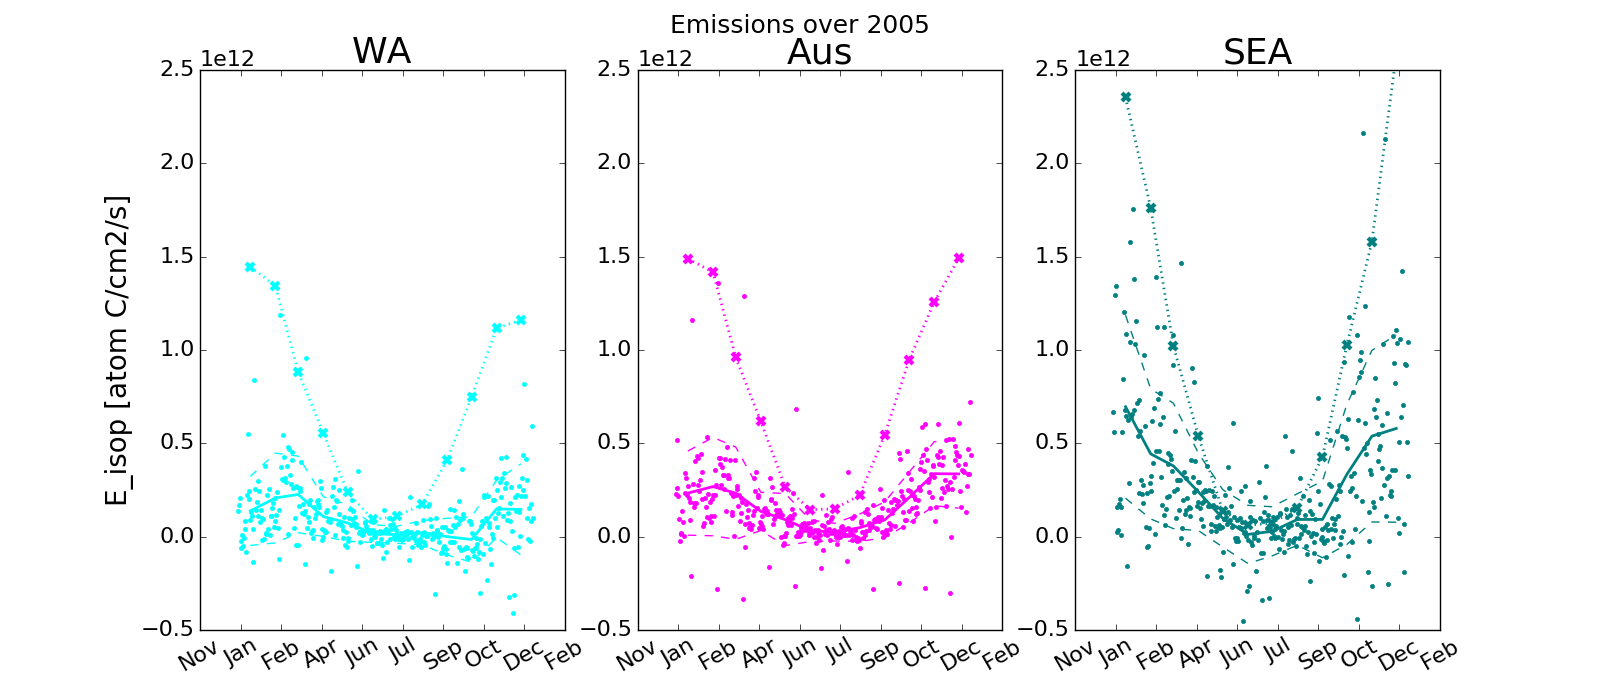
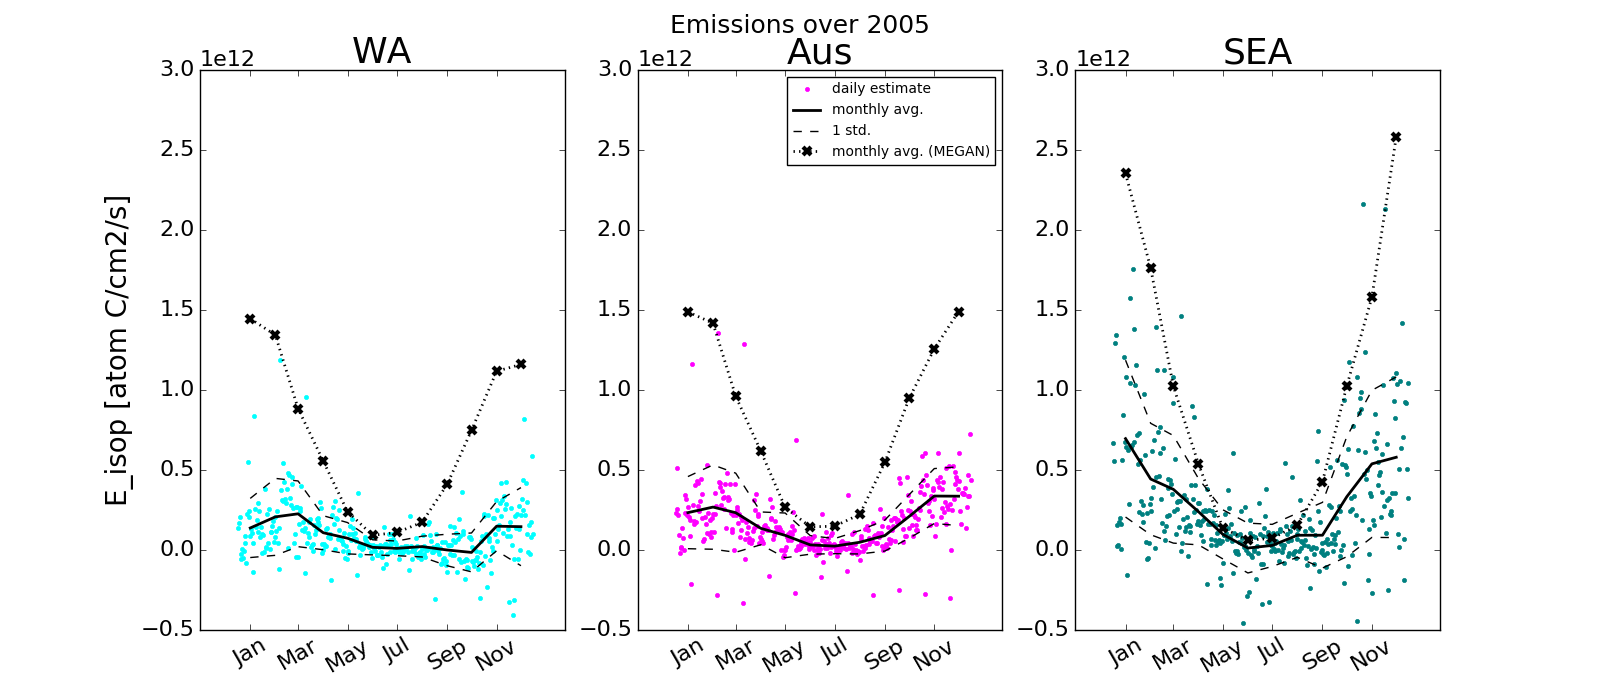
Updated E_isop plot

diff --git a/Analyse_E_isop.py b/Analyse_E_isop.py
@@ -111,17 +111,17 @@ def E_new_time_series(d0=datetime(2005,1,1),dn=datetime(2005,12,1),
     for i,rc in enumerate(zip(subs,colors)):
         ax.append(plt.subplot(131+i))
         region,color=rc
-        ptsargs={'dfmt':"%b",'color':color}
+        ptsargs={'dfmt':"%b",'color':'k'}
 
         dates, E_isop=Enew.get_series('E_isop',region=region)
         dates, GC_E_isop=Enew.get_series('GC_E_isop',region=region)
         units=Enew.attributes['E_isop']['units']
 
-        # Plot time series
+        # Plot time series (dots with color of region)
         pp.plot_time_series(dates,E_isop,
                             linestyle='None', marker='.',
-                            label=[None,'daily'][i==0],
-                            **ptsargs)
+                            label=[None,'daily estimate'][i==1],
+                            color=color)
 
         # Add monthly average line
         monthly=util.monthly_averaged(dates,E_isop)
@@ -129,28 +129,35 @@ def E_new_time_series(d0=datetime(2005,1,1),dn=datetime(2005,12,1),
         GC_E_monthly=GC_monthly['data']
         GC_mstd=GC_monthly['std']
         mdates=monthly['middates']; E_monthly=monthly['data']
+        xticks=mdates[0::2]
         mstd=monthly['std'];
 
+        # Plot monthly average and std:
         pp.plot_time_series(mdates,E_monthly, linewidth=2.0,
-                            label=[None,'monthly avg.'][i==0],
-                            **ptsargs)
-
-        pp.plot_time_series(mdates,GC_E_monthly,linestyle=':',
-                            markeredgewidth=3, marker='x', linewidth=2,
-                            label=[None,'monthly avg. (MEGAN)'][i==0],
+                            label=[None,'monthly avg.'][i==1],
                             **ptsargs)
 
         # add +- 1 std.
         pp.plot_time_series(mdates,E_monthly+mstd, linestyle='--',
-                            label=[None,'1 std.'][i==0],
+                            label=[None,'1 std.'][i==1],
                             **ptsargs)
         pp.plot_time_series(mdates,E_monthly-mstd, linestyle='--',
                             **ptsargs)
+
+        # Plot E_isop average
+        pp.plot_time_series(mdates,GC_E_monthly,linestyle=':',xticks=xticks,
+                            markeredgewidth=3, marker='x', linewidth=2,
+                            label=[None,'monthly avg. (MEGAN)'][i==1],
+                            **ptsargs)
+
+
         plt.ylim([-0.5e12, 3e12])
         plt.title(labels[i])
+        if i==1: plt.legend(loc='best',prop={'size': 10})
+
     ax[0].set_ylabel("E_isop [%s]"%units)
     plt.suptitle("Emissions over 2005")
-    plt.legend(loc='best')
+
 
 
 

diff --git a/utilities/plotting.py b/utilities/plotting.py
@@ -313,7 +313,7 @@ def plot_corellation(X,Y, lims=[1e12,2e17], logscale=True, legend=True,
     if diag:
         plt.plot(lims0,lims0,'--',color=colour,label='1-1') # plot the 1-1 line for comparison
 
-def plot_time_series(datetimes,values,ylabel=None,xlabel=None, pname=None, legend=False, title=None, xtickrot=30, dfmt='%Y%m', **pltargs):
+def plot_time_series(datetimes,values,ylabel=None,xlabel=None, pname=None, legend=False, title=None, xtickrot=30, dfmt='%Y%m', xticks=None, **pltargs):
     ''' plot values over datetimes '''
     dates = mdates.date2num(datetimes)
     #plt.plot_date(dates, values, **pltargs)
@@ -333,6 +333,10 @@ def plot_time_series(datetimes,values,ylabel=None,xlabel=None, pname=None, legen
         plt.legend()
     if title is not None:
         plt.title(title)
+    if xticks is not None:
+        #xt=[]
+        #xt.append(mdates.date2num(xticks))
+        plt.xticks(xticks)
     if pname is not None:
         plt.savefig(pname)
         print('%s saved'%pname)
